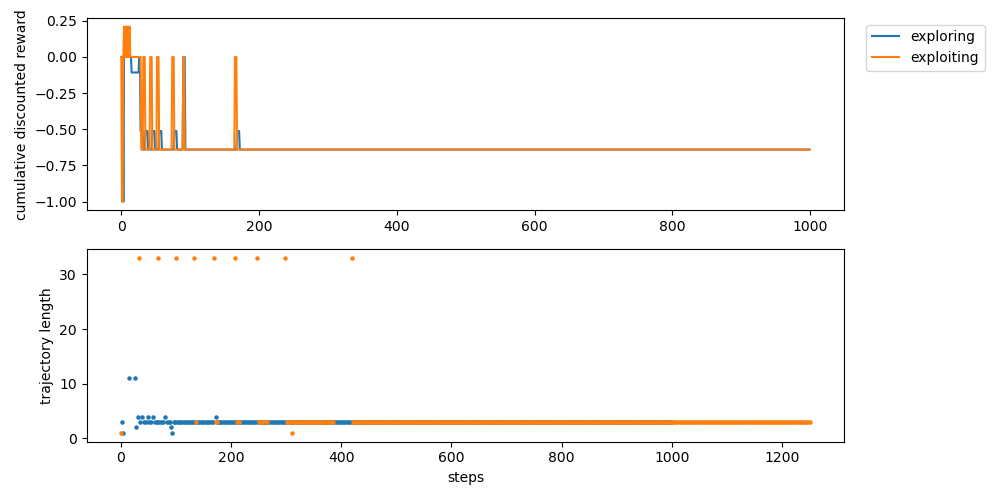
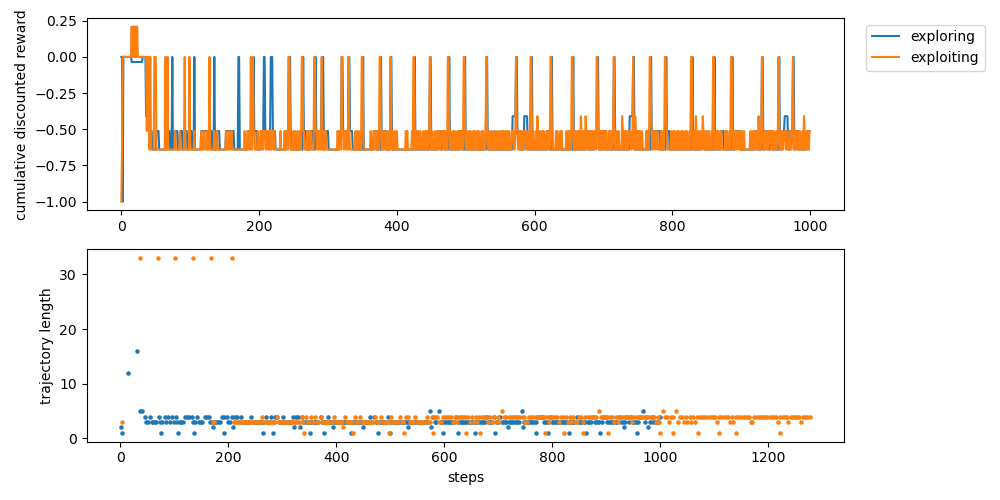
AIC bug fix + new plots

diff --git a/MDP/main.py b/MDP/main.py
@@ -2,18 +2,21 @@ import numpy as np
 import MDP
 from warnings import filterwarnings
 import matplotlib.pyplot as plt
+import tqdm
 
 GRIDWORLD = "POOL"
-AGENT_TYPE = "LINEAR_RMAX"
-ANIMATE = False
+AGENT_TYPE = "NOVELTOR"
+ANIMATE = True
 MAX_STEPS = 1000
 EPISODE_TIMEOUT = 32
 GAMMA = 0.8
-ALPHA = 0.1
+ALPHA = 0.2
 BATCH_SIZE = 1
 WEIGHTS_METHOD = "exponential"
+EXPLOIT = False
 
-FILE_SIG = f"{AGENT_TYPE}_{GRIDWORLD}_n[{MAX_STEPS}]_alpha[{ALPHA}]_gamma[{GAMMA}]_batch[{BATCH_SIZE}]_weights[{WEIGHTS_METHOD}]"
+FILE_SIG = f"{AGENT_TYPE}_{GRIDWORLD}_n[{MAX_STEPS}]_alpha[{ALPHA}]_gamma[{GAMMA}]_batch[{BATCH_SIZE}]" \
+           f"_weights[{WEIGHTS_METHOD}]_exploit[{EXPLOIT}]"
 print(FILE_SIG)
 if GRIDWORLD == "WILLEMSEN":
     grid = np.ones((3, 9)) * -1
@@ -34,8 +37,8 @@ elif GRIDWORLD == "POOL":
     grid[7, 7] = 1
     terminal_state = np.array([7, 7])
     initial_state = np.array([1, 0])
-    # blacked_state = np.array([[5, 5], [4, 5], [5, 4], [4, 4]])
-    blacked_state = np.array([[np.nan, np.nan], [np.nan, np.nan]])
+    blacked_state = np.array([[5, 5], [4, 5], [5, 4], [4, 4]])
+    # blacked_state = np.array([[np.nan, np.nan], [np.nan, np.nan]])
 
 # _, _, _, _ = MDP.plot_gridworld(grid, terminal_state, initial_state, blacked_state)
 
@@ -56,24 +59,25 @@ filterwarnings('ignore')
 if AGENT_TYPE == 'NOVELTOR':
     class ME_AIC_Learner:
         def __init__(self):
+            self.Qs = MDP.Q_table(alpha=ALPHA, gamma=GAMMA, mask=MDP.identity())
             if GRIDWORLD == 'WILLEMSEN':
-                self.Qs = MDP.N_table(alpha=ALPHA, gamma=GAMMA, mask=MDP.identity())
-                self.Qg = MDP.N_table(alpha=ALPHA, gamma=GAMMA, mask=MDP.global_context())
-                self.Qe = MDP.CombinedAIC([self.Qs, self.Qg], RSS_alpha=0.9, weights_method=WEIGHTS_METHOD)
+                self.Ns = MDP.N_table(alpha=ALPHA, gamma=GAMMA, mask=MDP.identity())
+                self.Ng = MDP.N_table(alpha=ALPHA, gamma=GAMMA, mask=MDP.global_context())
+                self.Qe = MDP.CombinedAIC([self.Ns, self.Ng], RSS_alpha=ALPHA, weights_method=WEIGHTS_METHOD)
             elif GRIDWORLD == 'POOL':
-                self.Qs = MDP.N_table(alpha=ALPHA, gamma=GAMMA, mask=MDP.identity())
-                self.Qg = MDP.N_table(alpha=ALPHA, gamma=GAMMA, mask=MDP.global_context())
-                self.Qc = MDP.N_table(alpha=ALPHA, gamma=GAMMA, mask=MDP.column())
-                self.Qr = MDP.N_table(alpha=ALPHA, gamma=GAMMA, mask=MDP.row())
-                # self.Ql = MDP.LinearNoveltyEstimator(alpha=ALPHA, gamma=GAMMA)
-                self.Qe = MDP.CombinedAIC([self.Qs, self.Qg, self.Qr, self.Qc], RSS_alpha=0.9, weights_method=WEIGHTS_METHOD)
+                self.Ns = MDP.N_table(alpha=ALPHA, gamma=GAMMA, mask=MDP.identity())
+                self.Ng = MDP.N_table(alpha=ALPHA, gamma=GAMMA, mask=MDP.global_context())
+                self.Nc = MDP.N_table(alpha=ALPHA, gamma=GAMMA, mask=MDP.column())
+                self.Nr = MDP.N_table(alpha=ALPHA, gamma=GAMMA, mask=MDP.row())
+                # self.Nl = MDP.LinearNoveltyEstimator(alpha=ALPHA, gamma=GAMMA)
+                self.Qe = MDP.CombinedAIC([self.Ns, self.Ng, self.Nr, self.Nc], RSS_alpha=ALPHA, weights_method=WEIGHTS_METHOD)
 
         def select_action(self, t, greedy=False):
             if t.action != 'initialize':
-                reward = 1/(self.Qs.visits[t.state][t.action] + 1) if t.state_ != t.state else 0
+                reward = 1/(self.Ns.visits[t.state][t.action] + 1) if t.state_ != t.state else 0
                 self.Qe.update_RSS(t.action, reward, t.state_)
             if greedy:  # use estimator with minimum RSS
-                values = self.Qe.predict(t.state)
+                values = self.Qs.table[t.state]
                 # print(t, values)
                 return np.random.choice(np.flatnonzero(values == values.max()))
             else:  # use the AIC combined estimators
@@ -82,6 +86,7 @@ if AGENT_TYPE == 'NOVELTOR':
 
         def update(self, transitions):
             for t in transitions:
+                self.Qs.update(t)
                 self.Qe.update(t)
 elif AGENT_TYPE == 'LINEAR_NOVELTOR':
     class ME_AIC_Learner:
@@ -90,14 +95,14 @@ elif AGENT_TYPE == 'LINEAR_NOVELTOR':
                 self.Qs = MDP.N_table(alpha=ALPHA, gamma=GAMMA, mask=MDP.identity())
                 self.Qg = MDP.N_table(alpha=ALPHA, gamma=GAMMA, mask=MDP.global_context())
                 self.Ql = MDP.LinearNoveltyEstimator(alpha=ALPHA, gamma=GAMMA)
-                self.Qe = MDP.CombinedAIC([self.Qs, self.Qg, self.Ql], RSS_alpha=0.9, weights_method=WEIGHTS_METHOD)
+                self.Qe = MDP.CombinedAIC([self.Qs, self.Qg, self.Ql], RSS_alpha=ALPHA, weights_method=WEIGHTS_METHOD)
             elif GRIDWORLD == 'POOL':
                 self.Qs = MDP.N_table(alpha=ALPHA, gamma=GAMMA, mask=MDP.identity())
                 self.Qg = MDP.N_table(alpha=ALPHA, gamma=GAMMA, mask=MDP.global_context())
                 self.Qc = MDP.N_table(alpha=ALPHA, gamma=GAMMA, mask=MDP.column())
                 self.Qr = MDP.N_table(alpha=ALPHA, gamma=GAMMA, mask=MDP.row())
                 # self.Ql = MDP.LinearNoveltyEstimator(alpha=ALPHA, gamma=GAMMA)
-                self.Qe = MDP.CombinedAIC([self.Qs, self.Qg, self.Qr, self.Qc], RSS_alpha=0.9, weights_method=WEIGHTS_METHOD)
+                self.Qe = MDP.CombinedAIC([self.Qs, self.Qg, self.Qr, self.Qc], RSS_alpha=ALPHA, weights_method=WEIGHTS_METHOD)
 
         def select_action(self, t, greedy=False):
             if t.action != 'initialize':
@@ -123,23 +128,23 @@ elif AGENT_TYPE == 'PSEUDOCOUNT':
                 self.Qs = MDP.N_table(alpha=ALPHA, gamma=GAMMA, mask=MDP.identity())
                 self.Qg = MDP.N_table(alpha=ALPHA, gamma=GAMMA, mask=MDP.global_context())
                 self.Ql = MDP.LinearNoveltyEstimator(alpha=ALPHA, gamma=GAMMA)
-                self.Qe = MDP.CombinedAIC([self.Qs, self.Qg, self.Ql], RSS_alpha=0.9, weights_method=WEIGHTS_METHOD)
+                self.Qe = MDP.CombinedAIC([self.Qs, self.Qg, self.Ql], RSS_alpha=ALPHA, weights_method=WEIGHTS_METHOD)
             elif GRIDWORLD == 'POOL':
                 self.Qs = MDP.N_table(alpha=ALPHA, gamma=GAMMA, mask=MDP.identity())
                 self.Qg = MDP.N_table(alpha=ALPHA, gamma=GAMMA, mask=MDP.global_context())
                 self.Qc = MDP.N_table(alpha=ALPHA, gamma=GAMMA, mask=MDP.column())
                 self.Qr = MDP.N_table(alpha=ALPHA, gamma=GAMMA, mask=MDP.row())
-                self.Qe = MDP.CombinedAIC([self.Qs, self.Qg, self.Qr, self.Qc], RSS_alpha=0.9, weights_method=WEIGHTS_METHOD)
+                self.Qe = MDP.CombinedAIC([self.Qs, self.Qg, self.Qr, self.Qc], RSS_alpha=ALPHA, weights_method=WEIGHTS_METHOD)
 
         def select_action(self, t, greedy=False):
             if t.action != 'initialize':
                 novelty = self.N.evaluate(t.state) if t.state_ != t.state else 0
                 self.Qe.update_RSS(t.action, novelty, t.state_)
-            if greedy: # use estimator with minimum RSS
+            if greedy:  # use estimator with minimum RSS
                 values = self.Qe.predict(t.state)
                 # print(t, values)
                 return np.random.choice(np.flatnonzero(values == values.max()))
-            else: # use the AIC combined estimators
+            else:  # use the AIC combined estimators
                 values = self.Qe.predict(t.state)
                 return np.random.choice(np.flatnonzero(values == values.max()))
 
@@ -153,23 +158,23 @@ elif AGENT_TYPE == "LINEAR":
             if GRIDWORLD == 'WILLEMSEN':
                 self.Qs = MDP.Q_table(alpha=ALPHA, gamma=GAMMA, mask=MDP.identity())
                 self.Ql = MDP.LinearEstimator(alpha=ALPHA, gamma=GAMMA)
-                self.Qe = MDP.CombinedAIC([self.Qs, self.Ql], RSS_alpha=0.9, weights_method=WEIGHTS_METHOD)
+                self.Qe = MDP.CombinedAIC([self.Qs, self.Ql], RSS_alpha=ALPHA, weights_method=WEIGHTS_METHOD)
             elif GRIDWORLD == 'POOL':
                 self.Qs = MDP.Q_table(alpha=ALPHA, gamma=GAMMA, mask=MDP.identity())
                 self.Qg = MDP.Q_table(alpha=ALPHA, gamma=GAMMA, mask=MDP.global_context())
                 self.Qc = MDP.Q_table(alpha=ALPHA, gamma=GAMMA, mask=MDP.column())
                 self.Qr = MDP.Q_table(alpha=ALPHA, gamma=GAMMA, mask=MDP.row())
                 self.Ql = MDP.LinearEstimator(alpha=ALPHA, gamma=GAMMA)
-                self.Qe = MDP.CombinedAIC([self.Qs, self.Qg, self.Qr, self.Qc, self.Ql], RSS_alpha=0.9, weights_method=WEIGHTS_METHOD)
+                self.Qe = MDP.CombinedAIC([self.Qs, self.Qg, self.Qr, self.Qc, self.Ql], RSS_alpha=ALPHA, weights_method=WEIGHTS_METHOD)
 
         def select_action(self, t, greedy=False):
             if t.action != 'initialize':
                 self.Qe.update_RSS(t.action, t.reward, t.state_)
 
-            if greedy: # use estimator with minimum RSS
+            if greedy:  # use estimator with minimum RSS
                 values = self.Qe.predict(t.state)
                 return np.random.choice(np.flatnonzero(values == values.max()))
-            else: # use the AIC combined estimators
+            else:  # use the AIC combined estimators
                 values = self.Qe.predict(t.state)
                 return np.random.choice(np.flatnonzero(values == values.max()))
 
@@ -183,22 +188,22 @@ elif AGENT_TYPE == "VANILLA":
             if GRIDWORLD == 'WILLEMSEN':
                 self.Qs = MDP.Q_table(alpha=ALPHA, gamma=GAMMA, mask=MDP.identity())
                 self.Qg = MDP.Q_table(alpha=ALPHA, gamma=GAMMA, mask=MDP.global_context())
-                self.Qe = MDP.CombinedAIC([self.Qs, self.Qg], RSS_alpha=0.9, weights_method=WEIGHTS_METHOD)
+                self.Qe = MDP.CombinedAIC([self.Qs, self.Qg], RSS_alpha=ALPHA, weights_method=WEIGHTS_METHOD)
             elif GRIDWORLD == 'POOL':
                 self.Qs = MDP.Q_table(alpha=ALPHA, gamma=GAMMA, mask=MDP.identity())
                 self.Qg = MDP.Q_table(alpha=ALPHA, gamma=GAMMA, mask=MDP.global_context())
                 self.Qc = MDP.Q_table(alpha=ALPHA, gamma=GAMMA, mask=MDP.column())
                 self.Qr = MDP.Q_table(alpha=ALPHA, gamma=GAMMA, mask=MDP.row())
-                self.Qe = MDP.CombinedAIC([self.Qs, self.Qg, self.Qr, self.Qc], RSS_alpha=0.9, weights_method=WEIGHTS_METHOD)
+                self.Qe = MDP.CombinedAIC([self.Qs, self.Qg, self.Qr, self.Qc], RSS_alpha=ALPHA, weights_method=WEIGHTS_METHOD)
 
         def select_action(self, t, greedy=False):
             if t.action != 'initialize':
                 self.Qe.update_RSS(t.action, t.reward, t.state_)
 
-            if greedy: # use estimator with minimum RSS
+            if greedy:  # use estimator with minimum RSS
                 values = self.Qe.predict(t.state)
                 return np.random.choice(np.flatnonzero(values == values.max()))
-            else: # use the AIC combined estimators
+            else:  # use the AIC combined estimators
                 values = self.Qe.predict(t.state)
                 return np.random.choice(np.flatnonzero(values == values.max()))
 
@@ -210,24 +215,24 @@ elif AGENT_TYPE == "RMAX":
     class ME_AIC_Learner:
         def __init__(self):
             if GRIDWORLD == 'WILLEMSEN':
-                self.Qs = MDP.RMax_table(alpha=ALPHA, gamma=GAMMA, MAX=0.1, mask=MDP.identity())
-                self.Qg = MDP.RMax_table(alpha=ALPHA, gamma=GAMMA, MAX=0.1, mask=MDP.global_context())
-                self.Qe = MDP.CombinedAIC([self.Qs, self.Qg], RSS_alpha=0.9, weights_method=WEIGHTS_METHOD)
+                self.Qs = MDP.RMax_table(alpha=ALPHA, gamma=GAMMA, MAX=1, mask=MDP.identity())
+                self.Qg = MDP.RMax_table(alpha=ALPHA, gamma=GAMMA, MAX=1, mask=MDP.global_context())
+                self.Qe = MDP.CombinedAIC([self.Qs, self.Qg], RSS_alpha=ALPHA, weights_method=WEIGHTS_METHOD)
             elif GRIDWORLD == 'POOL':
                 self.Qs = MDP.RMax_table(alpha=ALPHA, gamma=GAMMA, mask=MDP.identity())
                 self.Qg = MDP.RMax_table(alpha=ALPHA, gamma=GAMMA, mask=MDP.global_context())
                 self.Qc = MDP.RMax_table(alpha=ALPHA, gamma=GAMMA, mask=MDP.column())
                 self.Qr = MDP.RMax_table(alpha=ALPHA, gamma=GAMMA, mask=MDP.row())
-                self.Qe = MDP.CombinedAIC([self.Qs, self.Qg, self.Qr, self.Qc], RSS_alpha=0.9, weights_method=WEIGHTS_METHOD)
+                self.Qe = MDP.CombinedAIC([self.Qs, self.Qg, self.Qr, self.Qc], RSS_alpha=ALPHA, weights_method=WEIGHTS_METHOD)
 
         def select_action(self, t, greedy=False):
             if t.action != 'initialize':
                 self.Qe.update_RSS(t.action, t.reward, t.state_)
 
-            if greedy: # use estimator with minimum RSS
+            if greedy:  # use estimator with minimum RSS
                 values = self.Qe.predict(t.state)
                 return np.random.choice(np.flatnonzero(values == values.max()))
-            else: # use the AIC combined estimators
+            else:  # use the AIC combined estimators
                 values = self.Qe.predict(t.state)
                 return np.random.choice(np.flatnonzero(values == values.max()))
 
@@ -242,14 +247,14 @@ elif AGENT_TYPE == "LINEAR_RMAX":
                 self.Qs = MDP.RMax_table(alpha=ALPHA, gamma=GAMMA, MAX=0.5, mask=MDP.identity())
                 self.Qg = MDP.RMax_table(alpha=ALPHA, gamma=GAMMA, MAX=0.5, mask=MDP.global_context())
                 self.Ql = MDP.LinearEstimator(alpha=ALPHA, gamma=GAMMA, b=0.5)
-                self.Qe = MDP.CombinedAIC([self.Qs, self.Qg], RSS_alpha=0.9, weights_method=WEIGHTS_METHOD)
+                self.Qe = MDP.CombinedAIC([self.Qs, self.Qg], RSS_alpha=ALPHA, weights_method=WEIGHTS_METHOD)
             elif GRIDWORLD == 'POOL':
                 self.Qs = MDP.RMax_table(alpha=ALPHA, gamma=GAMMA, MAX=0.5, mask=MDP.identity())
                 self.Qg = MDP.RMax_table(alpha=ALPHA, gamma=GAMMA, MAX=0.5, mask=MDP.global_context())
                 self.Qc = MDP.RMax_table(alpha=ALPHA, gamma=GAMMA, MAX=0.5, mask=MDP.column())
                 self.Qr = MDP.RMax_table(alpha=ALPHA, gamma=GAMMA, MAX=0.5, mask=MDP.row())
                 self.Ql = MDP.LinearEstimator(alpha=ALPHA, gamma=GAMMA, b=0.5)
-                self.Qe = MDP.CombinedAIC([self.Qs, self.Qg, self.Qr, self.Qc, self.Ql], RSS_alpha=0.9,
+                self.Qe = MDP.CombinedAIC([self.Qs, self.Qg, self.Qr, self.Qc, self.Ql], RSS_alpha=ALPHA,
                                           weights_method=WEIGHTS_METHOD)
 
         def select_action(self, t, greedy=False):
@@ -281,7 +286,7 @@ Gn = []
 step = 0
 
 # MAIN TRAINING and EVALUATION LOOP
-for i in range(MAX_STEPS):
+for i in tqdm.tqdm(range(MAX_STEPS)):
     # EXPLORE
     action = agent.select_action(env.transition)
     transition = env.step(action)
@@ -290,15 +295,16 @@ for i in range(MAX_STEPS):
     S = rb.sample(batch_size=BATCH_SIZE)
     agent.update(S)
     trajectory.append(transition)
-    print(transition)
+    # print(transition)
     # EXPLOIT: by setting action selection to be exploitative: "greedy"
     Gg = []
-    # RUN entire trajectory, and set greedy env to the initial state
-    env_greedy.reset()
-    while not env_greedy.terminal and not env_greedy.timeout:
-        action = agent.select_action(env_greedy.transition, greedy=True)
-        transition = env_greedy.step(action)
-        Gg.append(transition.reward)
+    if EXPLOIT:
+        # RUN entire trajectory, and set greedy env to the initial state
+        env_greedy.reset()
+        while not env_greedy.terminal and not env_greedy.timeout:
+            action = agent.select_action(env_greedy.transition, greedy=True)
+            transition = env_greedy.step(action)
+            Gg.append(transition.reward)
 
     step += 1
 

diff --git a/MDP/estimators.py b/MDP/estimators.py
@@ -201,10 +201,11 @@ class CombinedAIC:
         self.estimators = estimators
         self.prev_V = np.zeros(len(self.estimators))
         self.prev_W = np.zeros(len(self.estimators))
-        self.RSS = np.ones(len(self.estimators)) * 0.01
+        self.RSS = np.ones(len(self.estimators))*1e-6
         self.alpha = RSS_alpha
         self.W = np.ones(len(self.estimators))/len(self.estimators)
         self.weights_method = weights_method
+        self.gamma = self.estimators[0].gamma
 
     # def weights(self, s):
     #     """Computes the weights for the estimators based on the Akaike Information Criterion"""
@@ -225,7 +226,7 @@ class CombinedAIC:
             N = np.array([np.sum(e.get_visits(s)) for e in self.estimators]).T
             complexity = np.multiply(2, K)
             accuracy = np.multiply(N, np.log(self.RSS))
-            AIC = np.subtract(complexity, accuracy)
+            AIC = np.add(complexity, accuracy) + (2*np.power(K, 2) + 2*K)/(np.subtract(N, K) - 1)
             aic = np.min(AIC)
             w = np.exp(np.subtract(aic, AIC)/2)
         elif self.weights_method == "weighted_average":
@@ -233,8 +234,11 @@ class CombinedAIC:
             N = np.array([np.sum(e.get_visits(s)) for e in self.estimators]).T
             complexity = np.multiply(2, K)
             accuracy = np.multiply(N, np.log(self.RSS))
-            AIC = np.subtract(complexity, accuracy)
+            AIC = np.add(complexity, accuracy) + (2*np.power(K, 2) + 2*K)/(np.subtract(N, K) - 1)
             w = 1/AIC
+        # baselines to compare our methods to
+        # w_biased = sqrt(b/(n_u+b))
+        # n_b/(n_u + n_b + 4*n_u*n_b*b)
         self.W = w/np.sum(w)
         # print('AIC Weights', K, N, complexity, accuracy, self.RSS, AIC, self.W)
         return self.W
@@ -243,17 +247,16 @@ class CombinedAIC:
         V = np.array([e.evaluate(s) for e in self.estimators]).T
         self.prev_V = V
         self.prev_W = self.weights(s)
-        # print('predict', V, self.weights(s))
+        # print('predict', V, self.prev_W)
         return np.dot(V, self.prev_W)  # Matrix @ Vector dot product
 
     def update_RSS(self, a, r, s_): # un-discounted reward
         V = np.array([e.evaluate(s_) for e in self.estimators]).T
-        gamma = self.estimators[0].gamma
-        Qsa = self.prev_V[a]
-        maxQs_a_ = np.max(np.dot(V, self.prev_W))
-        e = r + gamma * maxQs_a_ - Qsa
+        Qsa = self.prev_V[a]  # check that this is a vector
+        maxQs_a_ = np.max(np.dot(V, self.prev_W))  # check that this is a vector
+        e = r + self.gamma * maxQs_a_ - Qsa
         e2 = np.power(e, 2)
-        self.RSS = np.multiply(self.alpha, self.RSS) + np.multiply((1-self.alpha), e2)
+        self.RSS = np.multiply((1-self.alpha), self.RSS) + np.multiply(self.alpha, e2)
         # print("update_RSS:", V, Qsa, maxQs_a_, e, e2, self.RSS)
         return self.RSS
 
